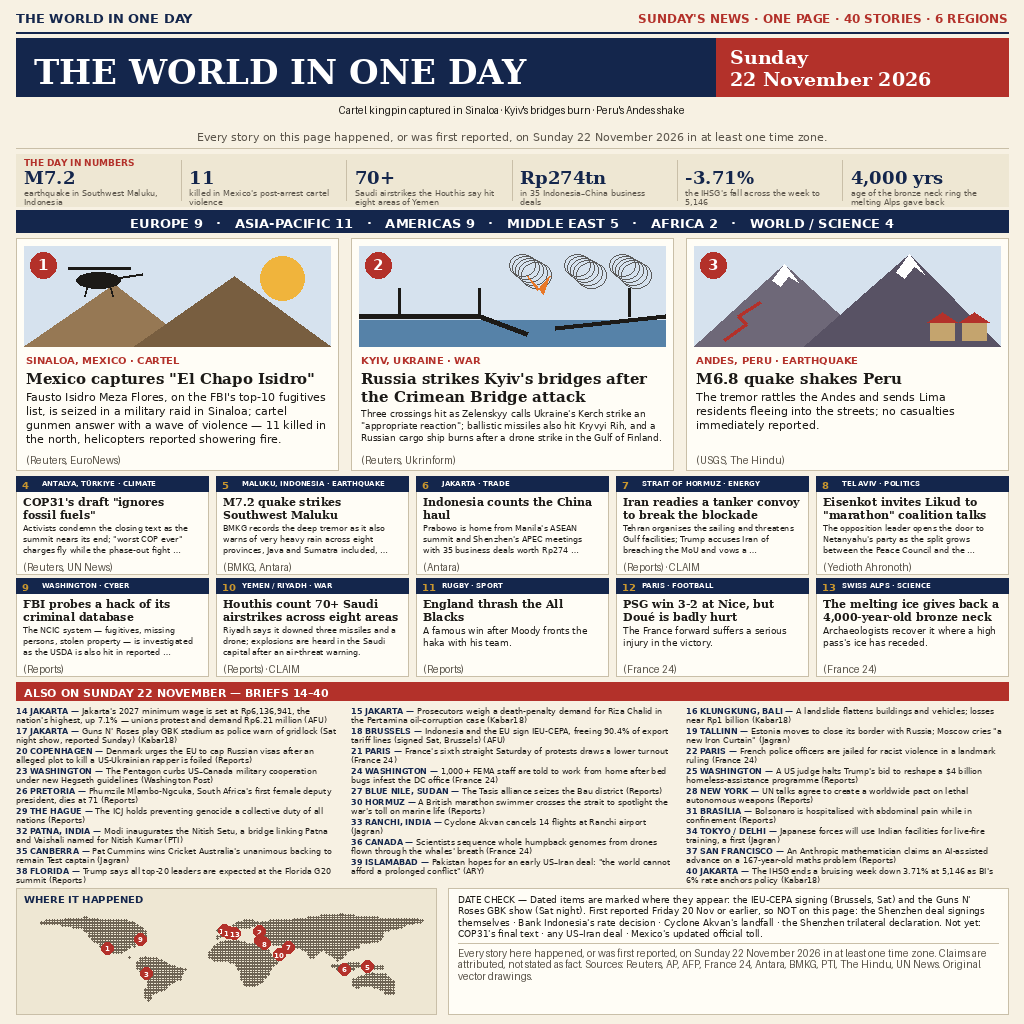
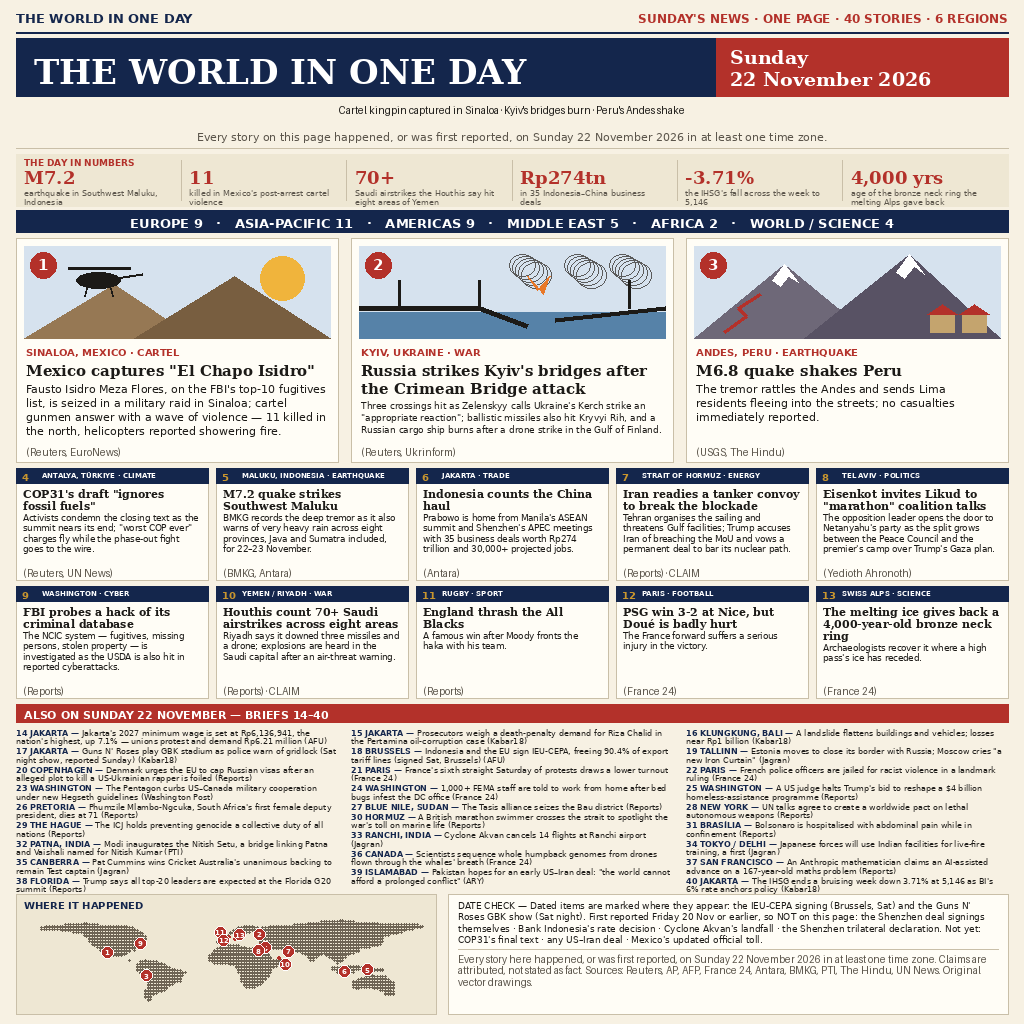
v2: full card bodies at readable size, offset map pins, red numerals

diff --git a/compose.py b/compose.py
@@ -147,7 +147,7 @@ def numbers_strip(draw):
         x = 16 + i * colw + 8
         if i:
             draw.line((16 + i * colw, y0 + 6, 16 + i * colw, y1 - 6), fill=LINE, width=1)
-        draw.text((x, y0 + 13), big, font=serif_b(18), fill=NAVY)
+        draw.text((x, y0 + 13), big, font=serif_b(18), fill=RED)
         block(draw, x, y0 + 34, label, sans(8), colw - 16, 9.5, color=GRAY, max_lines=2)
 
 
@@ -217,17 +217,17 @@ def draw_lead_art(draw, idx, x, y, w, h):
 
 
 def leads(draw):
-    y0, hh = 238, 232
+    y0, hh = 238, 224
     colw, gap = 322, 13
     for i, (num, tag, head, body, src) in enumerate(LEADS):
         x = 16 + i * (colw + gap)
         draw.rectangle((x, y0, x + colw, y0 + hh), fill=PAPER, outline=LINE, width=1)
-        draw_lead_art(draw, i, x + 8, y0 + 8, colw - 16, 100)
+        draw_lead_art(draw, i, x + 8, y0 + 8, colw - 16, 92)
         draw.ellipse((x + 14, y0 + 14, x + 40, y0 + 40), fill=RED)
         nf = sans_b(15)
         draw.text((x + 27 - draw.textlength(num, font=nf) / 2, y0 + 18), num, font=nf,
                   fill=(255, 255, 255))
-        ty = y0 + 116
+        ty = y0 + 108
         draw.text((x + 10, ty), tag, font=sans_b(10), fill=RED)
         ty = block(draw, x + 10, ty + 15, head, serif_b(15), colw - 20, 18)
         ty = fit_block(draw, x + 10, ty + 3, body, colw - 20, y0 + hh - ty - 22,
@@ -254,7 +254,7 @@ CARDS = [
      "Reports", "CLAIM"),
     ("8", "TEL AVIV · POLITICS", 'Eisenkot invites Likud to "marathon" coalition talks',
      "The opposition leader opens the door to Netanyahu's party as the split grows "
-     "between the Peace Council and the premier's administration over Trump's Gaza plan.",
+     "between the Peace Council and the premier's camp over Trump's Gaza plan.",
      "Yedioth Ahronoth", ""),
     ("9", "WASHINGTON · CYBER", "FBI probes a hack of its criminal database",
      "The NCIC system — fugitives, missing persons, stolen property — is "
@@ -278,17 +278,31 @@ CARDS = [
 
 def cards(draw):
     colw, gap = 192, 8
-    ys = (476, 578)
+    ys = (468, 586)
     for i, (num, tag, head, body, src, claim) in enumerate(CARDS):
         x = 16 + (i % 5) * (colw + gap)
         y0 = ys[i // 5]
-        hh = 98
+        hh = 112
         draw.rectangle((x, y0, x + colw, y0 + hh), fill=PAPER, outline=LINE, width=1)
         draw.rectangle((x, y0, x + colw, y0 + 15), fill=NAVY)
         draw.text((x + 6, y0 + 3), num, font=sans_b(10), fill=GOLD)
         draw.text((x + 26, y0 + 3), tag, font=sans_b(7), fill=(255, 255, 255))
-        ty = block(draw, x + 7, y0 + 19, head, serif_b(11), colw - 14, 13, max_lines=2)
-        fit_block(draw, x + 7, ty + 2, body, colw - 14, y0 + hh - ty - 16, (9, 8))
+        ty = block(draw, x + 7, y0 + 19, head, serif_b(11), colw - 14, 12, max_lines=3)
+        # Body at a fixed readable size; as many full lines as the card
+        # holds, so no story is cut mid-sentence where it can be helped.
+        bfnt = sans(8.5)
+        lines = wrap(draw, body, bfnt, colw - 14)
+        max_lines = max(1, int((y0 + hh - 14 - (ty + 2)) // 10.5))
+        if len(lines) > max_lines:
+            lines = lines[:max_lines]
+            last = lines[-1]
+            while last and draw.textlength(last + " …", font=bfnt) > colw - 14:
+                last = last.rsplit(" ", 1)[0]
+            lines[-1] = last + " …"
+        by = ty + 2
+        for ln in lines:
+            draw.text((x + 7, by), ln, font=bfnt, fill=INK)
+            by += 10.5
         tail = "(" + src + ")" + (" · " + claim if claim else "")
         draw.text((x + 7, y0 + hh - 13), tail, font=serif_i(8), fill=GRAY)
 
@@ -342,16 +356,16 @@ def brief_item(draw, x, y, w, num, place, text):
     if cur:
         lines.append(cur)
     for i, ln in enumerate(lines[:3]):
-        draw.text((x + (pw if i == 0 else 0), y + i * 9), ln, font=fnt, fill=INK)
-    return y + max(1, len(lines[:3])) * 9 + 2
+        draw.text((x + (pw if i == 0 else 0), y + i * 8.5), ln, font=fnt, fill=INK)
+    return y + max(1, len(lines[:3])) * 8.5 + 1.5
 
 
 def briefs(draw):
-    draw.rectangle((16, 682, 1008, 700), fill=RED)
-    draw.text((24, 686), "ALSO ON SUNDAY 22 NOVEMBER — BRIEFS 14–40", font=sans_b(11),
+    draw.rectangle((16, 704, 1008, 722), fill=RED)
+    draw.text((24, 708), "ALSO ON SUNDAY 22 NOVEMBER — BRIEFS 14–40", font=sans_b(11),
               fill=(255, 255, 255))
     colw, gap = 322, 13
-    ys = [706] * 3
+    ys = [728] * 3
     for i, (num, place, text) in enumerate(BRIEFS):
         c = i % 3
         x = 16 + c * (colw + gap)
@@ -407,11 +421,15 @@ def in_poly(lon, lat, poly):
     return inside
 
 
+PIN_OFF = {2: (0, -2), 4: (5, 3), 8: (-6, 3), 10: (6, 6), 11: (-4, -3),
+           12: (-5, 3), 13: (5, -4)}
+
+
 def world_map(draw):
-    x0, y0, x1, y1 = 16, 888, 436, 1014
+    x0, y0, x1, y1 = 16, 894, 436, 1014
     draw.rectangle((x0, y0, x1, y1), fill=(238, 231, 211), outline=LINE, width=1)
     draw.text((x0 + 8, y0 + 5), "WHERE IT HAPPENED", font=sans_b(10), fill=NAVY)
-    mx, my, mw, mh = x0 + 10, y0 + 24, x1 - x0 - 20, 96
+    mx, my, mw, mh = x0 + 10, y0 + 24, x1 - x0 - 20, 90
 
     def proj(lon, lat):
         return (mx + (lon + 180) / 360 * mw, my + (80 - lat) / 145 * mh)
@@ -433,10 +451,15 @@ def world_map(draw):
         lat += 2.4
     for i, (lon, lat) in enumerate(PINS):
         px, py = proj(lon, lat)
-        draw.ellipse((px - 6, py - 6, px + 6, py + 6), fill=RED)
+        dx, dy = PIN_OFF.get(i + 1, (0, 0))
+        cx, cy = px + dx, py + dy
+        if dx or dy:
+            draw.ellipse((px - 1.5, py - 1.5, px + 1.5, py + 1.5), fill=RED)
+            draw.line((px, py, cx, cy), fill=RED, width=1)
+        draw.ellipse((cx - 6, cy - 6, cx + 6, cy + 6), fill=RED, outline=(255, 255, 255), width=1)
         label = str(i + 1)
         fnt = sans_b(7)
-        draw.text((px - draw.textlength(label, font=fnt) / 2, py - 4), label,
+        draw.text((cx - draw.textlength(label, font=fnt) / 2, cy - 4), label,
                   font=fnt, fill=(255, 255, 255))
 
 
@@ -460,8 +483,8 @@ SOURCES = (
 def footer(draw):
     world_map(draw)
     x = 448
-    draw.rectangle((x, 888, 1008, 1014), fill=PAPER, outline=LINE, width=1)
-    ty = block(draw, x + 10, 894, DATE_CHECK, sans(9), 540, 11.5)
+    draw.rectangle((x, 894, 1008, 1014), fill=PAPER, outline=LINE, width=1)
+    ty = block(draw, x + 10, 900, DATE_CHECK, sans(9), 540, 11.5)
     draw.line((x + 10, ty + 3, 998, ty + 3), fill=LINE, width=1)
     block(draw, x + 10, ty + 7, SOURCES, serif_i(9), 540, 11.5, color=GRAY)
 
